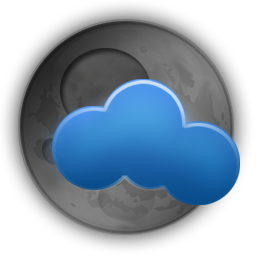
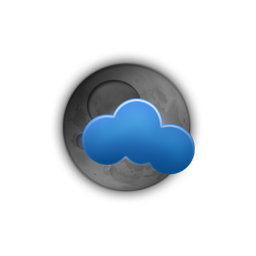
Parsed object in Angular Controller

diff --git a/client/js/controllers/wc_controller.js b/client/js/controllers/wc_controller.js
@@ -8,9 +8,10 @@ wcApp.controller('wcController', function($scope, $http, wcFactory){
 	that.fetch = function() {
 		console.log(that.result1,"1");
 		wcFactory.runApi(that.result1, function(res){
-			console.log("DATA HERE FROM ROVSHEN U REQUESTED !!!:" + res);
+			that.weather = (JSON.parse(res));
+			// console.log("DATA HERE FROM ROVSHEN U REQUESTED !!!:" + that.weather);
+			console.log(that.weather.name);
 		});
-
 	};
 
 	var getUsers = function(){

diff --git a/client/css/splashstyle.css b/client/css/splashstyle.css
@@ -20,7 +20,8 @@ body{
 		padding-top: 0;
 }
 .buffer{
-	margin-top: 20%;
+	height: 20%;
+	margin-top: 200px;
 }
 #results{
 	padding: 5%;
@@ -42,7 +43,9 @@ body{
 }
 
 #weathericon{
-	margin-left: 15%;
+	margin: -85px 0px 0px 134px;
+	max-height: 150px;
+	max-width: 150px;
 }
 
 #gmap{ margin: 5px;
@@ -53,7 +56,7 @@ body{
 	background-color: rgba(0, 0, 0, 0.4)
 }
 
-#recipies{
+#recipies {
 	min-width: 90%;
 	height: auto;
 	padding: 3%;

diff --git a/client/partials/results.html b/client/partials/results.html
@@ -1,6 +1,6 @@
 	<div class="buffer"></div>
-	<h2>Here are your {{ Bob.weather.name }} results</h2>
 		<div id="weather">
+		<h2>Here are your {{ Bob.weather.name }} results</h2>
 			<div class="col-md-6" id="weathdata">
 				<div id="place"><p><h3>Local Weather</h3></p></div>
 				<div id="currtemp"><p><h4>The current tempreture is {{ Bob.weather.main.temp }}&deg;F.</h4></p></div>

diff --git a/client/index.html b/client/index.html
@@ -104,11 +104,9 @@
 	</nav>
 	<!-- PARTIAL VIEW -->
 	<div class="container">
-		<div class="innercover">
-			<div class="jumbotron">
-				<div ng-view></div>
-		    	</div>
-	    	</div>
+		<div class="jumbotron">
+			<div ng-view></div>
+		</div>
 	</div>
 	<script>
 	$(document).on('keydown', function(e){
